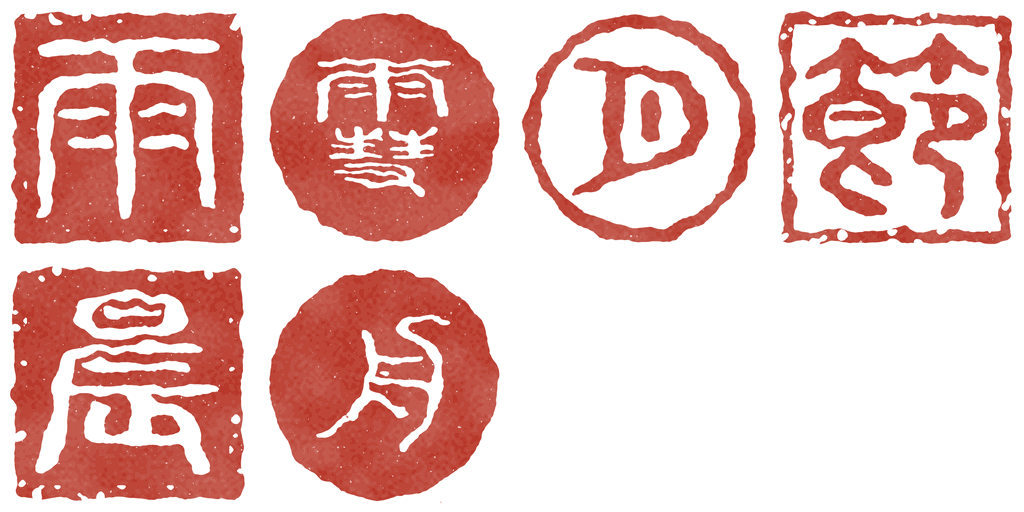
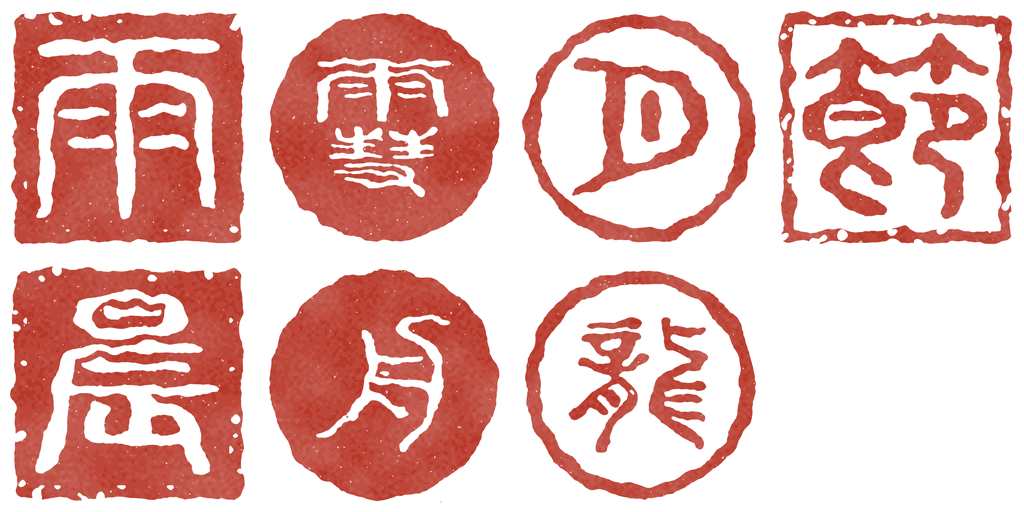
feat(pond): add the Dragon Gate's seal to the second sheet
The second sheet of seals gains 龙, round, red characters and border,
cut in its full form 龍 from the same seal face as the rest. The sheet
and the two painted clues were delivered on the earlier work branch;
this one carries them here.

Pictures in this branch now: `ink/seals-2.webp`, `monet/clue.webp`,
`qinghua/clue.webp`. The dragon sheets are still to come.

Changed region(s): [[0.5, 0.5312, 0.75, 1.0]]

diff --git a/docs/agents/pond.md b/docs/agents/pond.md
@@ -451,7 +451,7 @@ its red), entering at the right edge and reaching left, the left third empty.
 | `reeds.webp` | 75 KB | Reeds bending from the right, a goose flying in at the top and one standing among them: 364, 90, 660, 840. |
 | `stems.webp` | 42 KB | Withered lotus (残荷), 1024 × 1024 like the others and stored the same way (near-black, the tone in the alpha): three dry stems entering from the right edge and folding over, a seed-pod hanging at 538, 236 and a curled dead leaf below it; the paint is 538, 236, 486, 587, and the left half is empty. Sparse, as asked; the stems are thin, so it may want more strength than the reeds when multiplied in. |
 | `seals.webp` | 94 KB | 1024 × 768, cells of 256, 4 × 3, vermilion `#B8382A` with the tone in the alpha. Row 1: 墨 (square, white characters out of red), 浮世 (tall, red characters and border), 莲 (round, white), 青花 (tall, white). Row 2: 敦煌 (tall, red), 光 (round, red), 图 (square, white), 字 (square, red). Row 3: 星 (round, white), 刻 (square, white), 锦程 (tall, white, 锦 over 程), one cell empty. Square and round seals are 232 across, centred; tall ones 150 × 246. Small seal script from the Shuowen Jiezi face of Taiwan's CNS 11643 character set (an open-data font, not in the repository), cut as a seal carver writes them: 蓮, 圖 and 錦 in their full forms, 花 as 華 (the Shuowen has no 花), and 星 as three suns over 生. The edges, chips and pinholes are made in code, so every stone is worn alike; the characters are a dictionary's even line, not a carver's hand. |
-| `seals-2.webp` | 53 KB | 1024 × 512, cells of 256, 4 × 2, cut and coloured as `seals.webp` is (the same face, vermilion, the tone in the alpha, 232 across and centred). Row 1: 雨 (square, white characters out of red), 雪 (round, white), 月 (round, red characters and border), 节 (square, red). Row 2: 晨 (square, white), 舟 (round, white), two cells empty. 节 is cut as 節; the face has no 雪, so it is built as the Shuowen has it, rain over a broom (雨 over 彗), and its lower half is finer than the rest. 月 and 舟 are the seal forms, which a reader of modern characters may take for each other. |
+| `seals-2.webp` | 59 KB | 1024 × 512, cells of 256, 4 × 2, cut and coloured as `seals.webp` is (the same face, vermilion, the tone in the alpha, 232 across and centred). Row 1: 雨 (square, white characters out of red), 雪 (round, white), 月 (round, red characters and border), 节 (square, red). Row 2: 晨 (square, white), 舟 (round, white), 龙 (round, red, cut in its full form 龍), one cell empty. 节 is cut as 節; the face has no 雪, so it is built as the Shuowen has it, rain over a broom (雨 over 彗), and its lower half is finer than the rest. 月 and 舟 are the seal forms, which a reader of modern characters may take for each other. |
 | `dove.webp`, `spider.webp` | 16 KB and 27 KB | 768 × 256 each, three poses in 256-pixel cells, from above, facing right, at one scale, stored as the others are. The dove left as bare paper inside a few dark strokes at wing tips and tail: sitting (115 × 54), wings half open (117 × 134), flying (117 × 234). The spider in wet grey and black: sitting (193 × 94), walking (189 × 144), jumping (234 × 170). The dove's body has no tone of its own, so on the paper only its edges and tips show. |
 
 
@@ -945,7 +945,7 @@ is most of it.
      about 240 × 240 with alpha, a reign mark in cobalt as on the foot of a bowl, half hidden under a
      film of ochre dust with a few strokes wiped through it, edges feathered to nothing.
 
-8. **Delivered, to wire in: five more seals, for the volume of occasions** (`hours` in `VOLUMES`, `seals.ts`). A second sheet `seals-2.webp` in
+8. **Delivered, to wire in: six more seals, for the volume of occasions** (`hours` in `VOLUMES`, `seals.ts`). A second sheet `seals-2.webp` in
    `public/pond/ink/`, 1024 × 512, cells of 256, 4 × 2, cut and coloured exactly as `seals.webp` is
    (same face, same vermilion `#B8382A`, the tone in the alpha, square and round 232 across and
    centred): row 1 雨 (square, 白), 雪 (round, 白), 月 (round, 朱), 节 (square, 朱); row 2 晨
